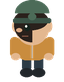
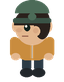
피코와 캠핑객 좌우 옆모습 스프라이트 수정

Changed region(s): [[0.2188, 0.2683, 0.8125, 0.5366], [0.6875, 0.1463, 0.7812, 0.2195], [0.2188, 0.1463, 0.3125, 0.2195]]

diff --git a/Project/pico_heist/art_sprites.py b/Project/pico_heist/art_sprites.py
@@ -125,10 +125,8 @@ def pico(direction="down", frame=0):
         p.pline([(20, 40 + bob), (20, 52 + bob)], "#2A4030", 1.4)
         p.pline([(44, 40 + bob), (44, 52 + bob)], "#2A4030", 1.4)
     elif direction in ("left", "right"):
-        # 옆모습
-        if direction == "right":
-            im = ImageOps.mirror(im)
-            p = Pen(im, ss)
+        # 옆모습은 왼쪽을 보고 그린 뒤, 오른쪽은 마지막에 전체를 반전한다.
+        # (몸만 먼저 반전하면 얼굴이 여전히 왼쪽을 봐서 어색해진다.)
         p.ell((8, 28, 30, 44), MUZZLE)          # 주둥이
         p.ell((14, 31, 22, 39), INK)            # 코
         p.pie((15, 10, 49, 44), 90, 270, MUZZLE)  # 얼굴 하단 밝게
@@ -154,6 +152,8 @@ def pico(direction="down", frame=0):
     p.rr((13, 25, 51, 31), 3.2, AMBER_D)
     p.ell((28, 1, 36, 9), CREAM)
     p.pie((18, 7, 30, 22), 200, 320, "#F2BC63")
+    if direction == "right":
+        im = ImageOps.mirror(im)
     return down(im, w, h)
 
 
@@ -191,6 +191,8 @@ def camper(variant=0, direction="down", frame=0, sitting=False):
         p.ell((36, 28, 40, 32), INK)
         p.ell((24, 8, 42, 22), "#B4553A")  # 모자
         p.rr((22, 19, 46, 23), 2, "#8E3F2A")
+        if direction == "right":
+            im = ImageOps.mirror(im)
         return down(im, w, h)
 
     # legs
@@ -216,14 +218,15 @@ def camper(variant=0, direction="down", frame=0, sitting=False):
         p.rect((14, 10, 50, 26), hair)
         p.ell((15, 8, 49, 34), hair)
     elif direction in ("left", "right"):
-        if direction == "right":
-            im = ImageOps.mirror(im)
-            p = Pen(im, ss)
-        p.pie((14, 8, 50, 42), 90, 270, hair)
-        p.ell((14, 10, 48, 30), hair)
-        p.ell((24, 24, 30, 31), INK)
+        # 옆모습은 왼쪽을 보고 그린 뒤, 오른쪽은 마지막에 전체를 반전한다.
+        # 얼굴 앞(왼쪽)은 살색으로 남기고 머리는 위쪽과 뒤쪽만 덮는다.
+        p.pie((14, 8, 50, 42), 180, 360, hair)   # 정수리·앞머리
+        p.ell((34, 9, 50, 39), hair)             # 뒤통수
+        p.ell((31, 26, 40, 36), skin)            # 귀
+        p.ell((33, 28, 38, 33), "#D9A882")
+        p.ell((24, 24, 30, 31), INK)             # 눈
         p.ell((25, 25, 27, 27.5), CREAM)
-        p.ell((16, 28, 22, 32), "#D9A882")  # 코
+        p.ell((16, 28, 22, 32), "#D9A882")       # 코
         p.pline([(22, 36), (28, 36)], "#8E5A48", 1.2)
     else:
         p.pie((14, 6, 50, 38), 180, 360, hair)
@@ -238,6 +241,8 @@ def camper(variant=0, direction="down", frame=0, sitting=False):
         p.pie((15, 0, 49, 26), 180, 360, "#4C6B58")
         p.rr((13, 18, 51, 23), 2, "#3A5346")
         p.ell((28, 13, 36, 20), "#4C6B58")
+    if direction == "right":
+        im = ImageOps.mirror(im)
     return down(im, w, h)
 
 
